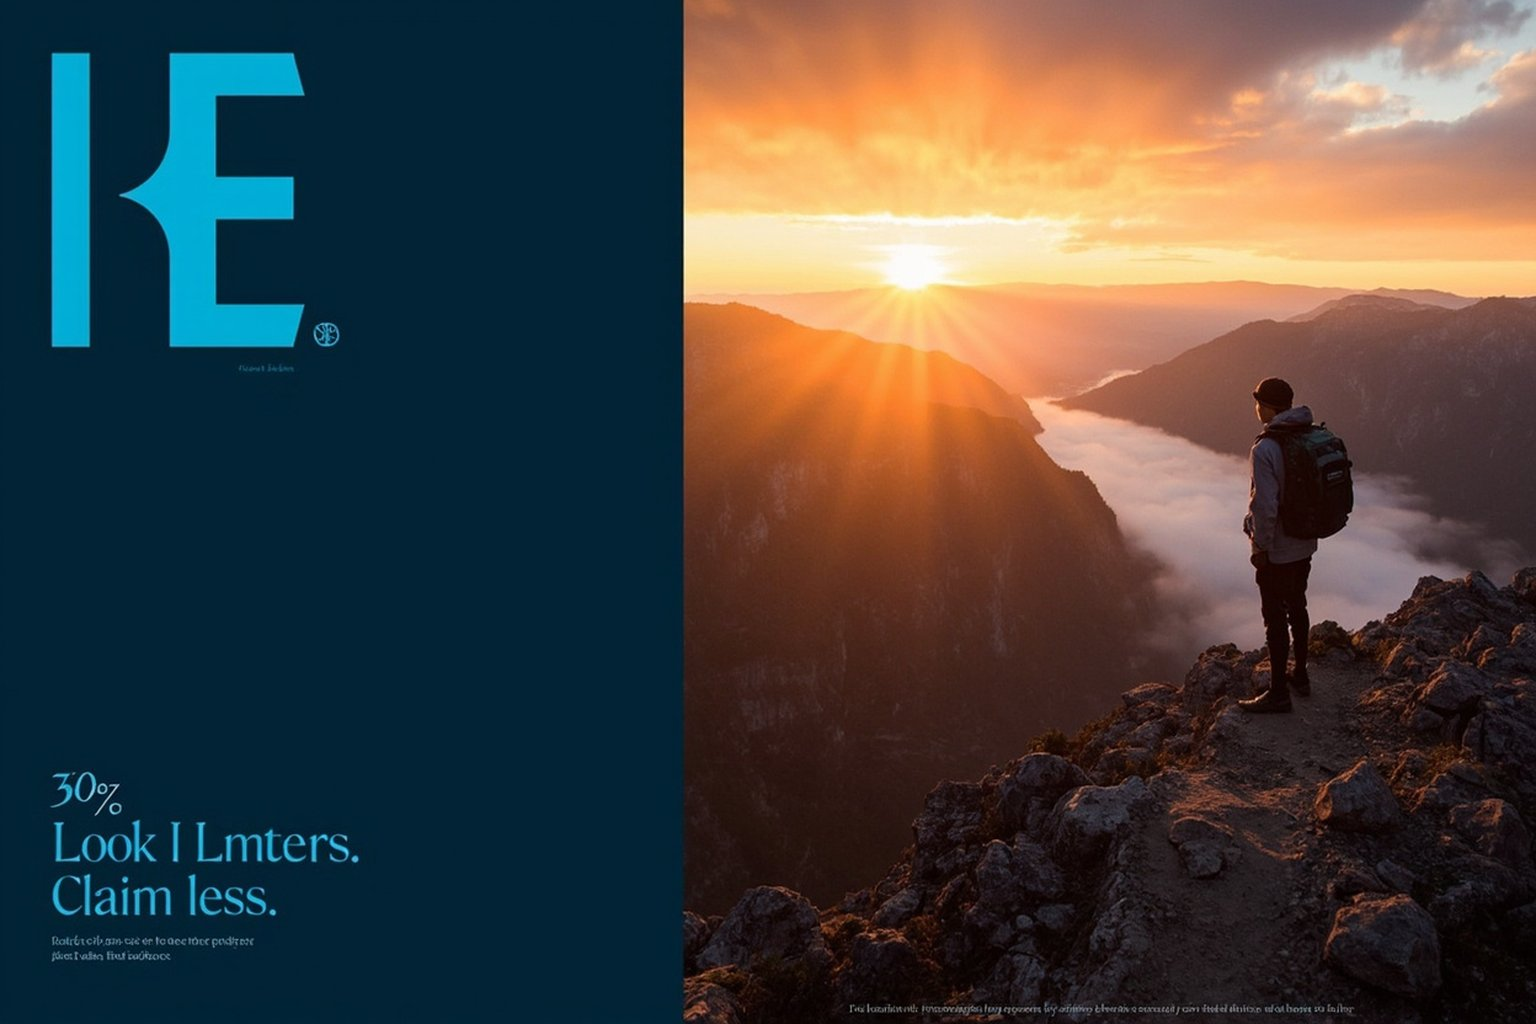
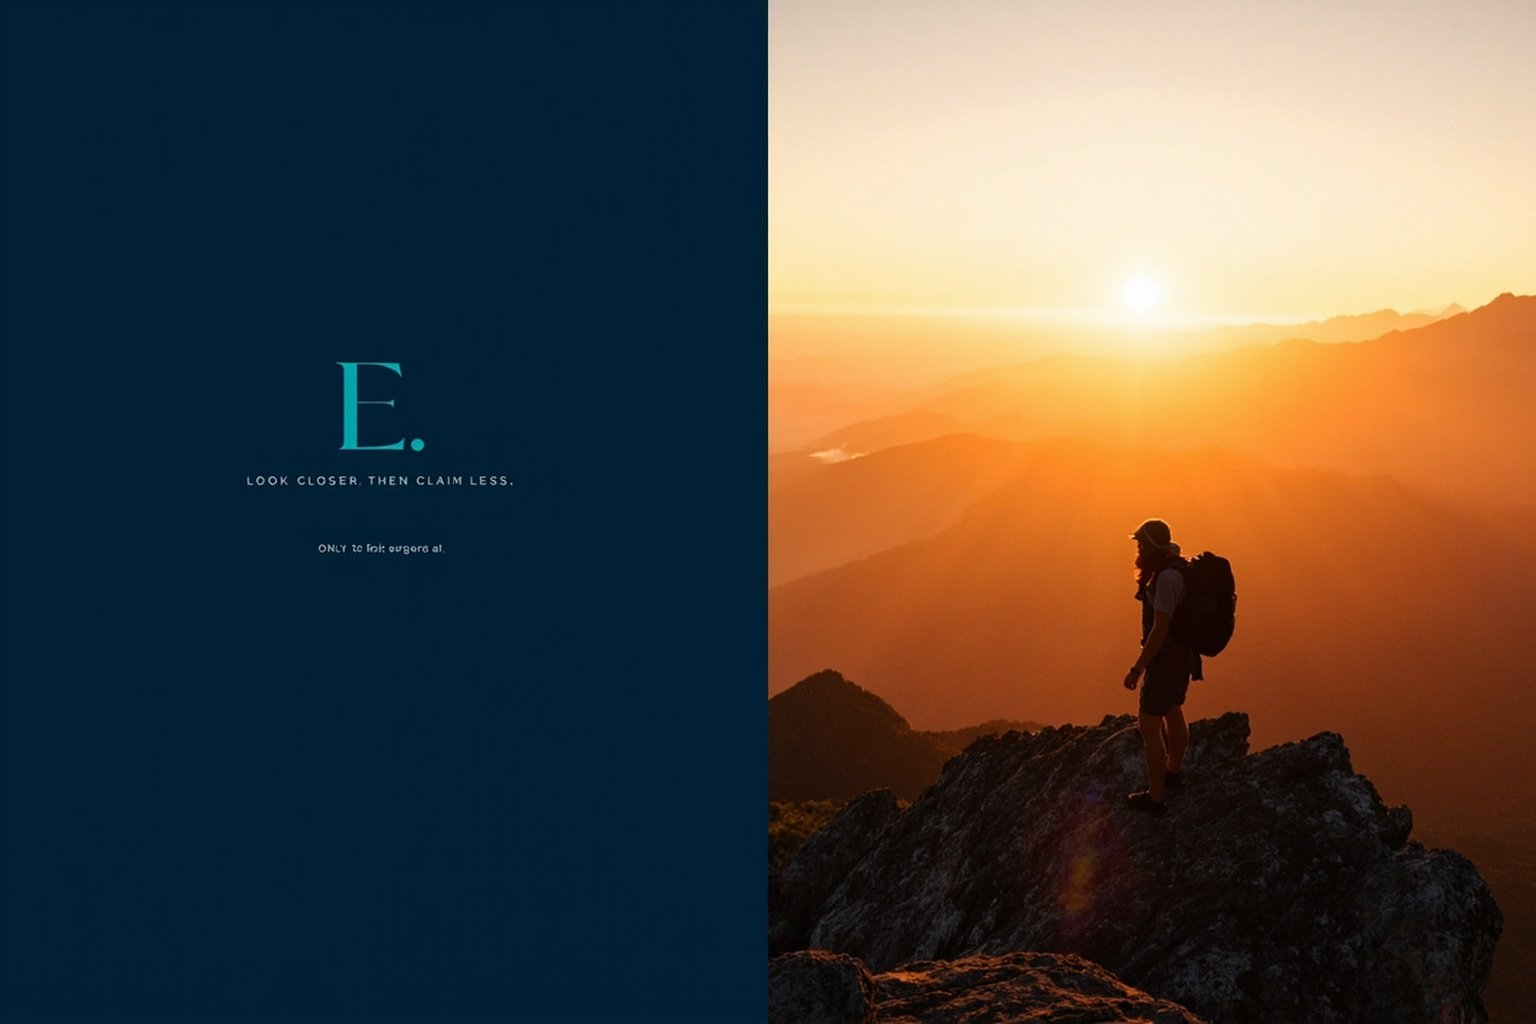
Issue 006: regenerate Wolverine campaign image (v2, split-panel composition)

diff --git a/tools/generate_wolverine_campaign.py b/tools/generate_wolverine_campaign.py
@@ -1,10 +1,11 @@
-"""Generate the Wolverine campaign image via MiniMax image-01.
+"""Generate the Wolverine campaign image via MiniMax image-01 (v2).
 
 EOS Research brand spec: split-composition layout, 30% dark navy sidebar
 with cyan 'E' logo + 'Look closer. Claim less.' tagline, 70% dawn scene.
-1536x1024 for OG images.
+1536x1024 for OG images. v2: stronger explicit layout instructions,
+simpler composition for cleaner text rendering.
 """
-import json, urllib.request, time
+import json, urllib.request
 from pathlib import Path
 
 HOME = Path.home()
@@ -16,14 +17,17 @@ for line in (HOME / "AppData/Local/hermes/.env").read_text().splitlines():
 key = env.get("MINIMAX_API_KEY", "").strip().strip('"').strip("'")
 
 PROMPT = (
-    "Split-composition brand image for a longevity science publication. "
-    "Left 30%: dark navy geometric sidebar with a minimalist cyan 'E' logo at top "
-    "and the tagline 'Look closer. Claim less.' in small clean cyan type below it. "
-    "Right 70%: a dramatic dawn landscape at a rugged mountain trail overlook, "
-    "warm orange sunrise light breaking over ridges, mist in the valley, "
-    "a lone figure with a backpack standing at the viewpoint looking out. "
-    "Photorealistic, cinematic, clean editorial aesthetic, high detail. "
-    "No text anywhere except the sidebar logo and tagline."
+    "Vertical split-screen editorial magazine cover, two distinct panels. "
+    "LEFT PANEL (30% of width): solid deep navy background, a clean minimal "
+    "uppercase cyan letter 'E' centered near the top, below it the words "
+    "'LOOK CLOSER.' then 'CLAIM LESS.' in small crisp white sans-serif text. "
+    "RIGHT PANEL (70% of width): photorealistic dawn landscape, a hiker with "
+    "a backpack standing on a rocky mountain overlook, warm orange sunrise "
+    "breaking over layered ridges, soft mist in the valley below, long "
+    "shadows, cinematic golden-hour light. "
+    "The two panels are divided by a thin straight vertical line. "
+    "Crisp focus, high detail, professional editorial photography style. "
+    "Text appears ONLY in the left panel."
 )
 
 payload = {
@@ -47,13 +51,9 @@ with urllib.request.urlopen(req, timeout=120) as r:
 image_urls = result.get("data", {}).get("image_urls", [])
 print(f"Generated {len(image_urls)} image(s)")
 if image_urls:
-    out = HOME / "eos-research/assets/images/wolverine-campaign-1536x1024.png"
-    # download
     req = urllib.request.Request(image_urls[0], headers={"User-Agent": "Mozilla/5.0"})
     with urllib.request.urlopen(req, timeout=120) as r:
         data = r.read()
-    # MiniMax returns jpeg; save raw and convert path note
-    tmp = HOME / "AppData/Local/hermes/cache/wolverine_campaign_raw.jpg"
+    tmp = HOME / "AppData/Local/hermes/cache/wolverine_campaign_raw_v2.jpg"
     tmp.write_bytes(data)
     print(f"Saved raw: {tmp} ({len(data):,} bytes)")
-    print(f"Target: {out}")
